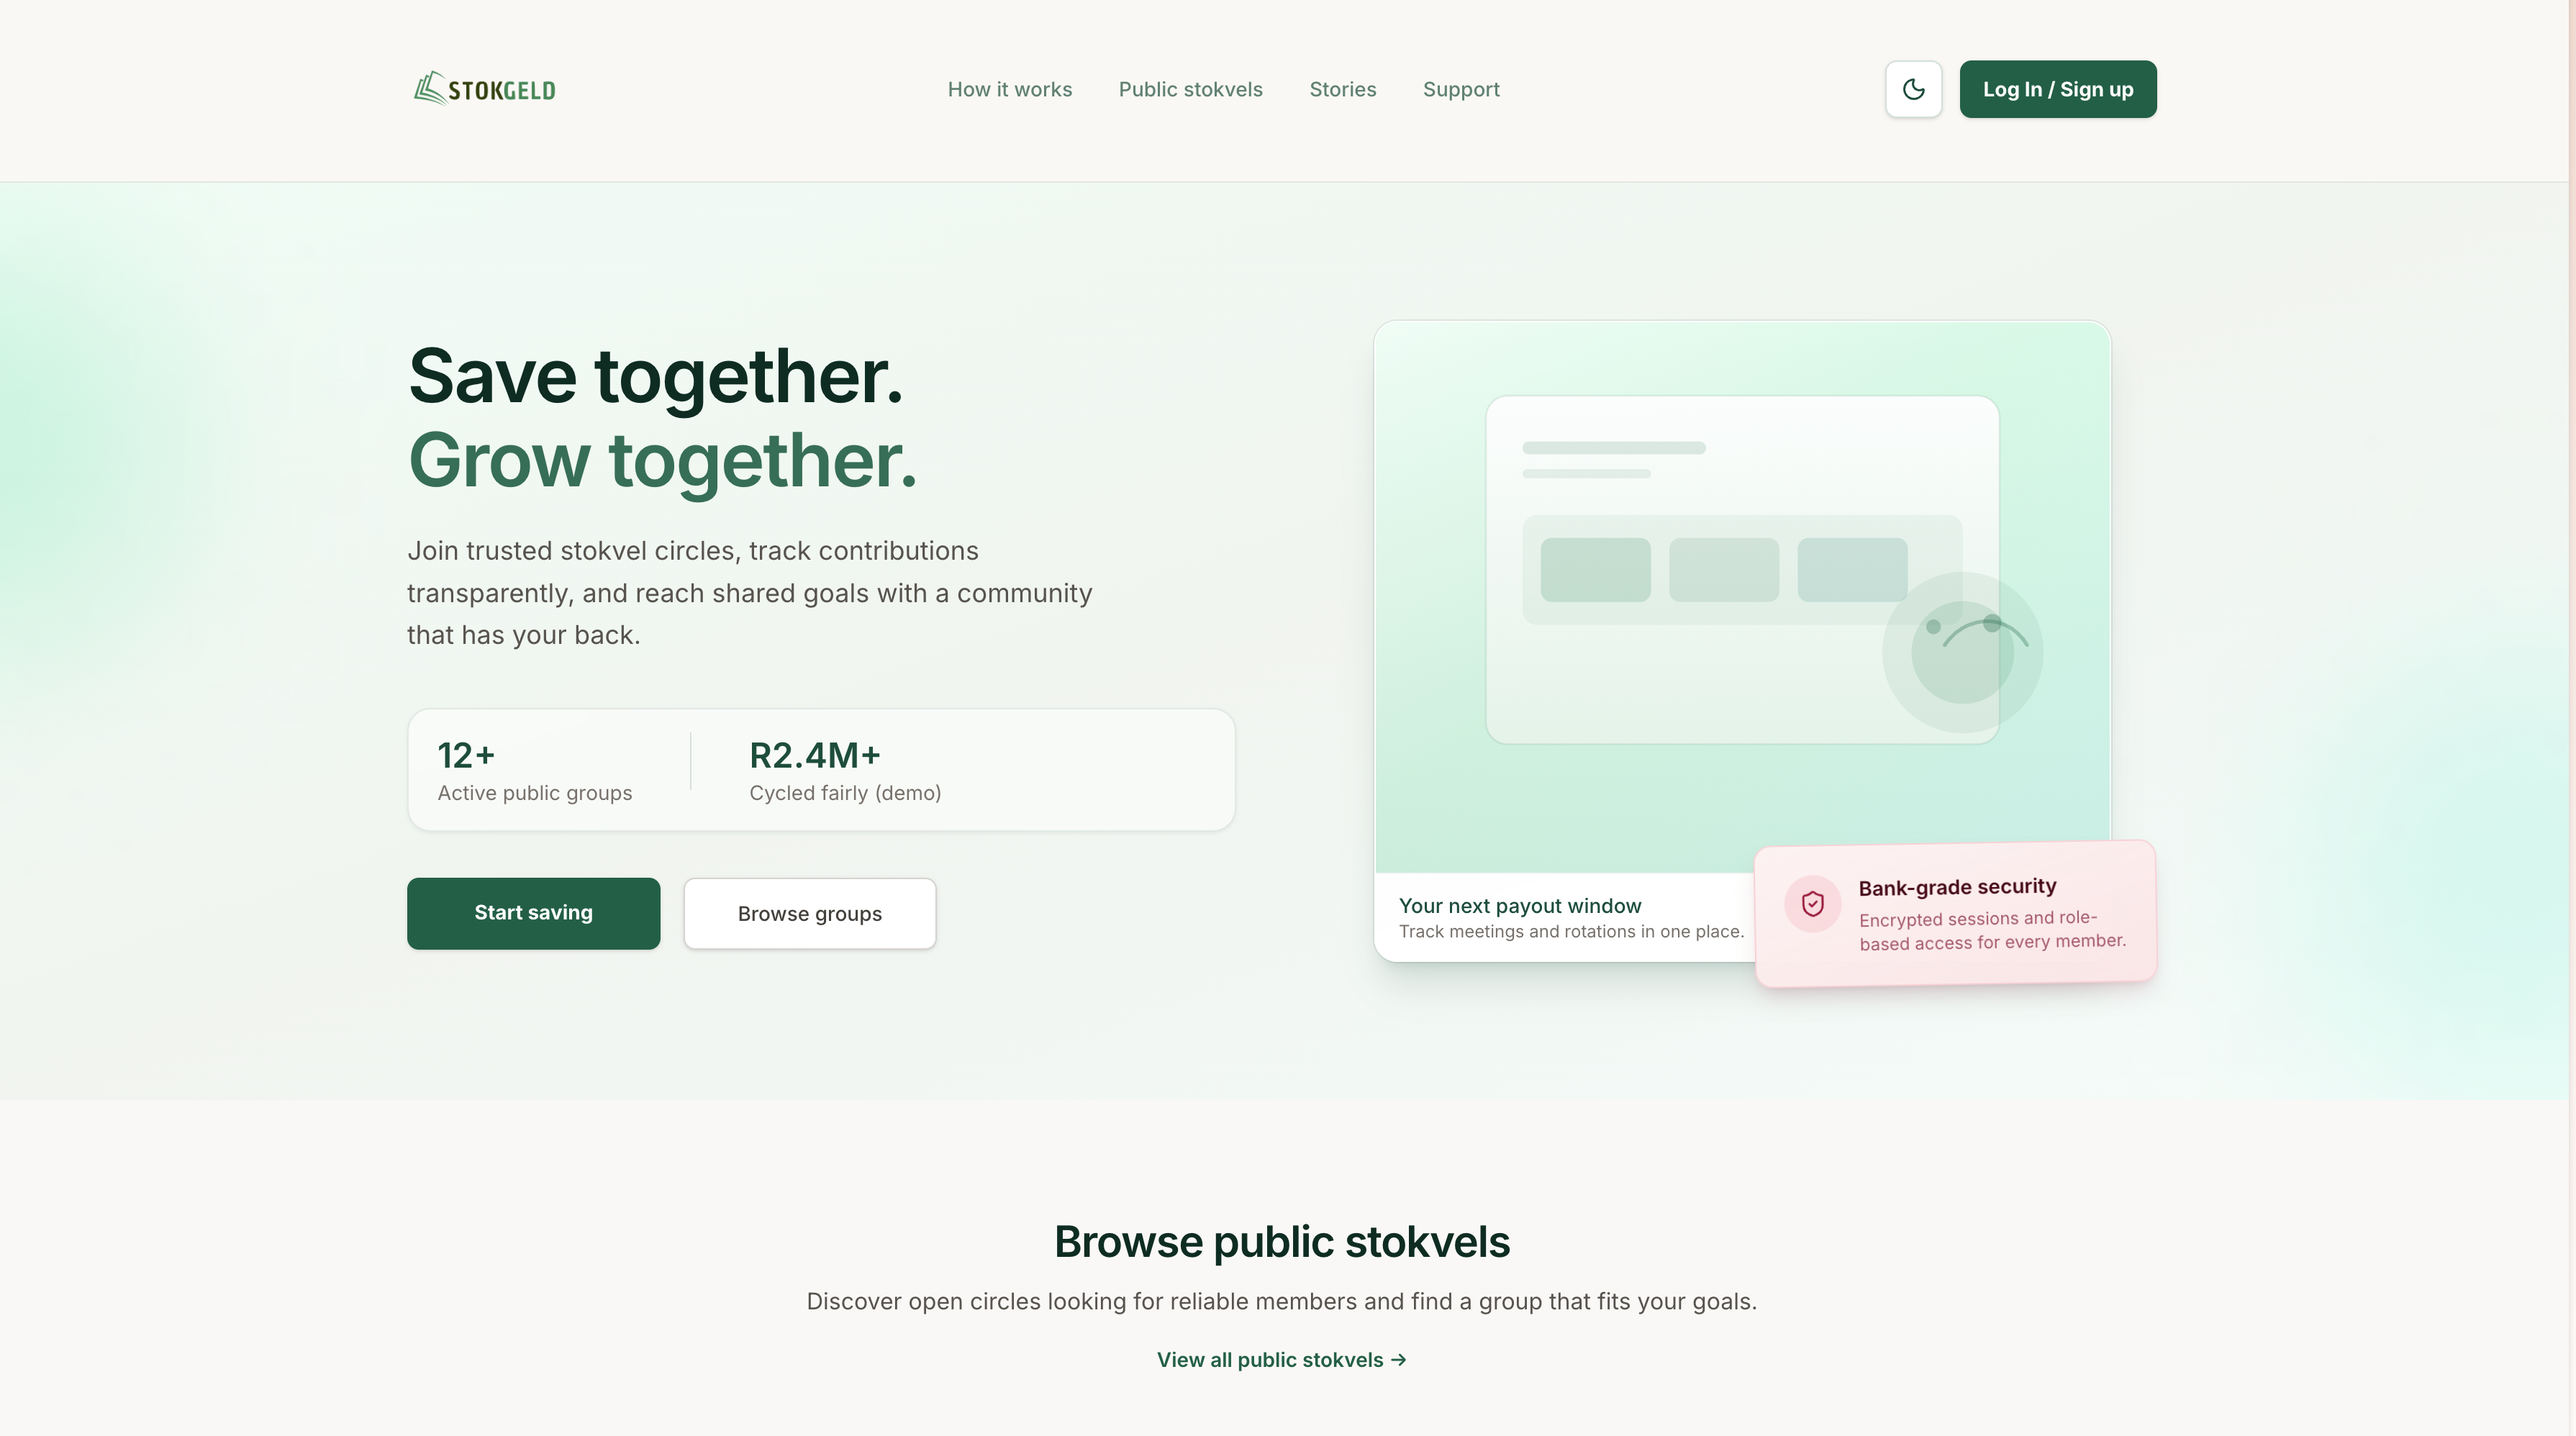
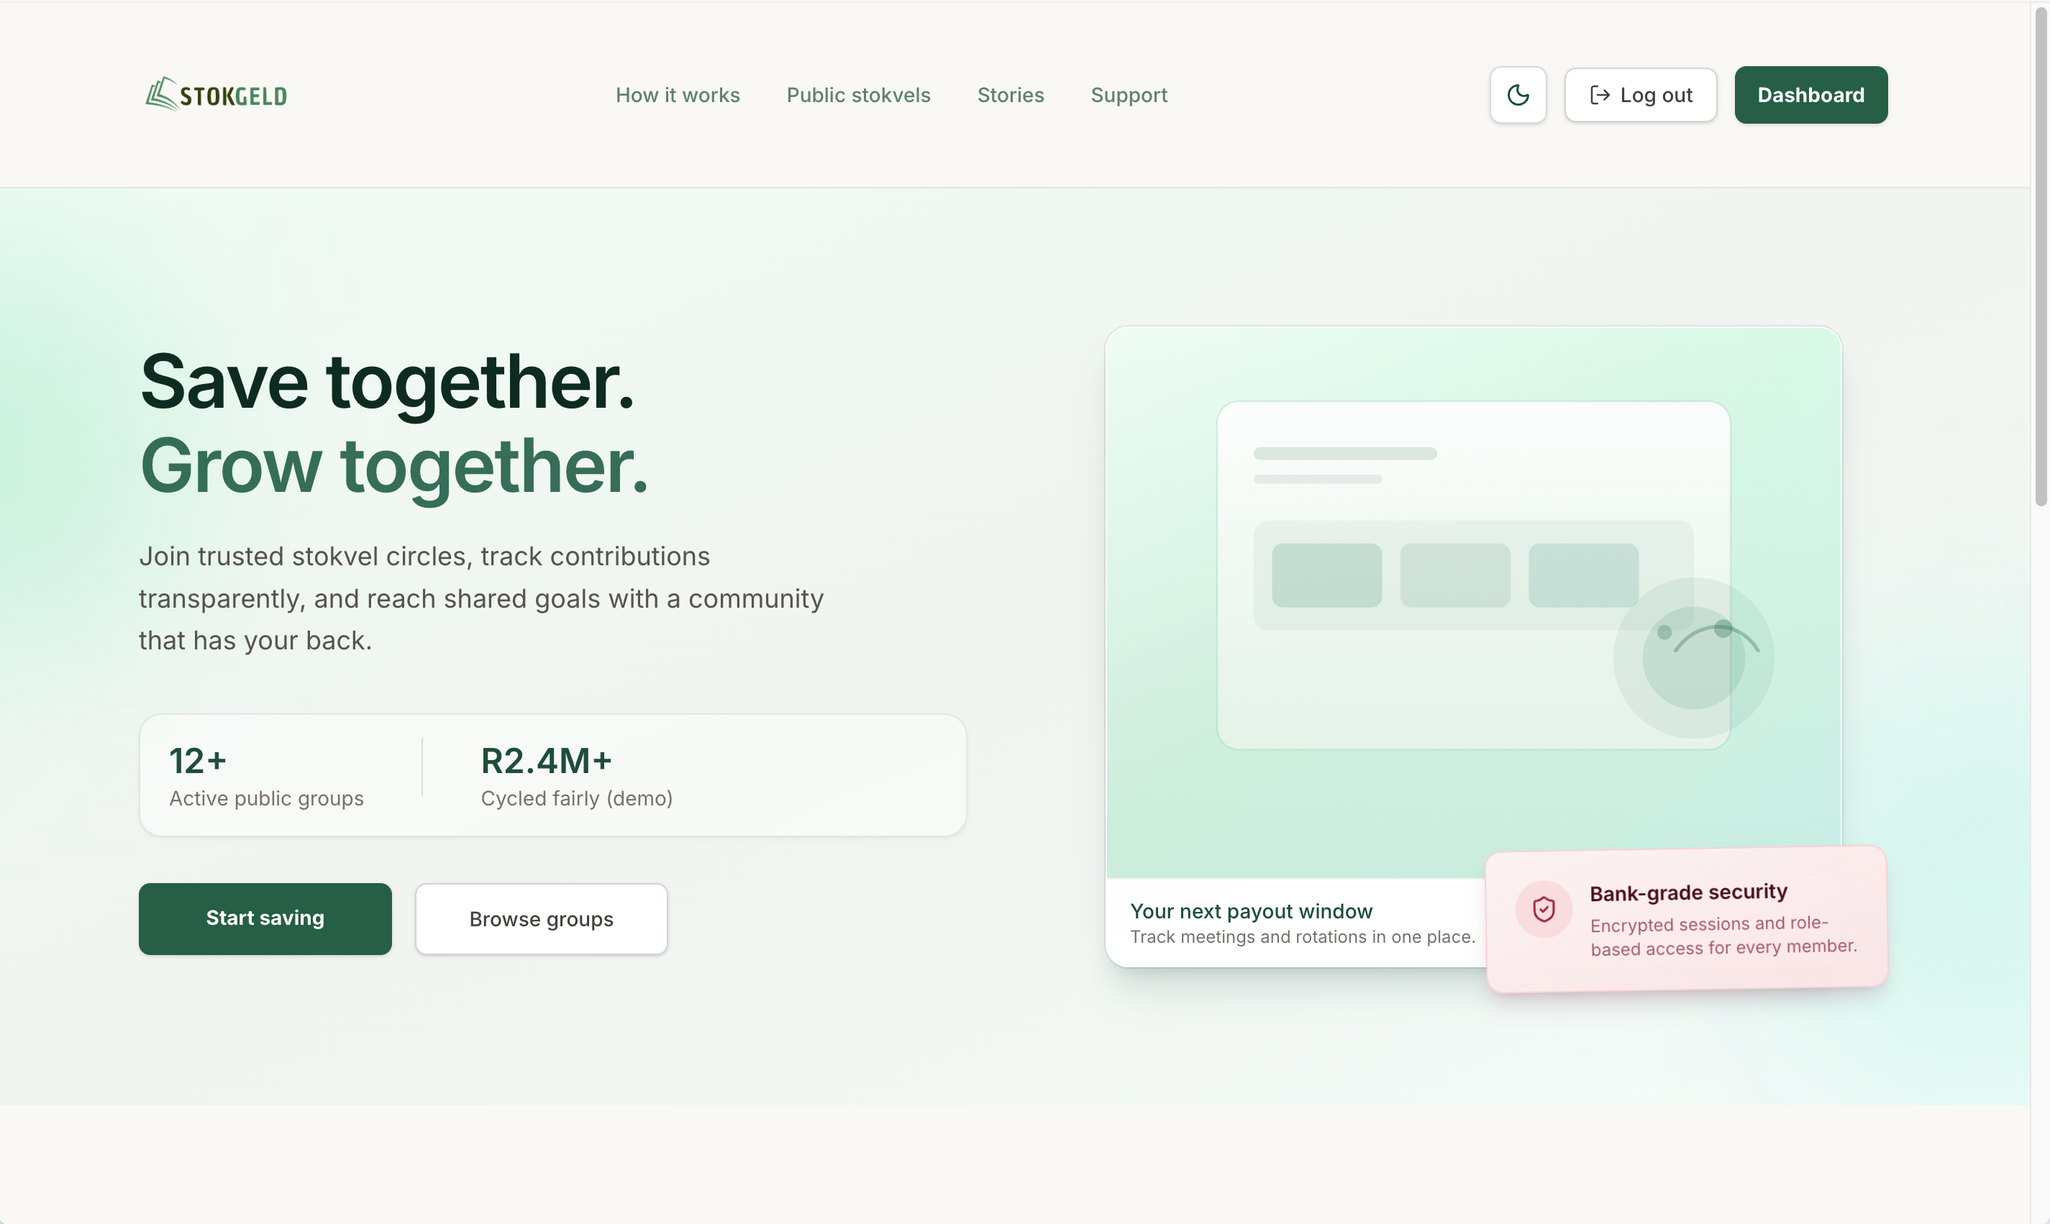
google keep project

diff --git a/cover.css b/cover.css
@@ -1,5 +1,13 @@
 @import url("https://fonts.googleapis.com/css2?family=Nunito:wght@400;600;700&display=swap");
 
+/* PS1 palette — project filters & cards use these in both themes */
+:root {
+  --ps-teal: #01aea0;
+  --ps-yellow: #ffc501;
+  --ps-red: #ff0021;
+  --ps-blue: #006eb8;
+}
+
 :root,
 [data-bs-theme="light"] {
   /* Custom Tokens - PS1 Light Mode */
@@ -362,78 +370,75 @@ body {
   border-color: var(--border-color) !important;
 }
 
-[data-bs-theme="light"] #projects-grid.filter-all-active .project-card .card {
+#projects-grid.filter-all-active .project-card .card {
   border-width: 1px;
   border-color: var(--border-color) !important;
 }
 
-[data-bs-theme="light"]
-  #projects-grid.filter-foundational-active
+#projects-grid.filter-foundational-active
   .project-card[data-project-category="foundational"]
   .card {
   border-width: 2px;
-  border-color: var(--accent-yellow) !important;
+  border-color: var(--ps-yellow) !important;
 }
 
-[data-bs-theme="light"]
-  #projects-grid.filter-fullstack-active
+#projects-grid.filter-fullstack-active
   .project-card[data-project-category="fullstack"]
   .card {
   border-width: 2px;
-  border-color: var(--accent-red) !important;
+  border-color: var(--ps-red) !important;
 }
 
-[data-bs-theme="light"]
-  #projects-grid.filter-wordpress-active
+#projects-grid.filter-wordpress-active
   .project-card[data-project-category="wordpress"]
   .card {
   border-width: 2px;
-  border-color: var(--accent-primary) !important;
+  border-color: var(--ps-blue) !important;
 }
 
-[data-bs-theme="light"] #projects-grid.filter-foundational-active .project-card .btn.btn-primary {
-  --bs-btn-bg: var(--accent-yellow);
-  --bs-btn-border-color: var(--accent-yellow);
-  --bs-btn-hover-bg: var(--accent-yellow);
-  --bs-btn-hover-border-color: var(--accent-yellow);
-  --bs-btn-active-bg: var(--accent-yellow);
-  --bs-btn-active-border-color: var(--accent-yellow);
+#projects-grid.filter-foundational-active .project-card .btn.btn-primary {
+  --bs-btn-bg: var(--ps-yellow);
+  --bs-btn-border-color: var(--ps-yellow);
+  --bs-btn-hover-bg: var(--ps-yellow);
+  --bs-btn-hover-border-color: var(--ps-yellow);
+  --bs-btn-active-bg: var(--ps-yellow);
+  --bs-btn-active-border-color: var(--ps-yellow);
   --bs-btn-color: #212529;
   --bs-btn-hover-color: #212529;
   --bs-btn-active-color: #212529;
 }
 
-[data-bs-theme="light"] #projects-grid.filter-all-active .project-card .btn.btn-primary {
-  --bs-btn-bg: var(--accent-teal);
-  --bs-btn-border-color: var(--accent-teal);
-  --bs-btn-hover-bg: var(--accent-teal);
-  --bs-btn-hover-border-color: var(--accent-teal);
-  --bs-btn-active-bg: var(--accent-teal);
-  --bs-btn-active-border-color: var(--accent-teal);
+#projects-grid.filter-all-active .project-card .btn.btn-primary {
+  --bs-btn-bg: var(--ps-teal);
+  --bs-btn-border-color: var(--ps-teal);
+  --bs-btn-hover-bg: var(--ps-teal);
+  --bs-btn-hover-border-color: var(--ps-teal);
+  --bs-btn-active-bg: var(--ps-teal);
+  --bs-btn-active-border-color: var(--ps-teal);
   --bs-btn-color: #fff;
   --bs-btn-hover-color: #fff;
   --bs-btn-active-color: #fff;
 }
 
-[data-bs-theme="light"] #projects-grid.filter-fullstack-active .project-card .btn.btn-primary {
-  --bs-btn-bg: var(--accent-red);
-  --bs-btn-border-color: var(--accent-red);
-  --bs-btn-hover-bg: var(--accent-red);
-  --bs-btn-hover-border-color: var(--accent-red);
-  --bs-btn-active-bg: var(--accent-red);
-  --bs-btn-active-border-color: var(--accent-red);
+#projects-grid.filter-fullstack-active .project-card .btn.btn-primary {
+  --bs-btn-bg: var(--ps-red);
+  --bs-btn-border-color: var(--ps-red);
+  --bs-btn-hover-bg: var(--ps-red);
+  --bs-btn-hover-border-color: var(--ps-red);
+  --bs-btn-active-bg: var(--ps-red);
+  --bs-btn-active-border-color: var(--ps-red);
   --bs-btn-color: #fff;
   --bs-btn-hover-color: #fff;
   --bs-btn-active-color: #fff;
 }
 
-[data-bs-theme="light"] #projects-grid.filter-wordpress-active .project-card .btn.btn-primary {
-  --bs-btn-bg: var(--accent-primary);
-  --bs-btn-border-color: var(--accent-primary);
-  --bs-btn-hover-bg: var(--accent-primary);
-  --bs-btn-hover-border-color: var(--accent-primary);
-  --bs-btn-active-bg: var(--accent-primary);
-  --bs-btn-active-border-color: var(--accent-primary);
+#projects-grid.filter-wordpress-active .project-card .btn.btn-primary {
+  --bs-btn-bg: var(--ps-blue);
+  --bs-btn-border-color: var(--ps-blue);
+  --bs-btn-hover-bg: var(--ps-blue);
+  --bs-btn-hover-border-color: var(--ps-blue);
+  --bs-btn-active-bg: var(--ps-blue);
+  --bs-btn-active-border-color: var(--ps-blue);
   --bs-btn-color: #fff;
   --bs-btn-hover-color: #fff;
   --bs-btn-active-color: #fff;
@@ -533,90 +538,99 @@ body {
     color 0.2s ease;
 }
 
+#projects .project-tabs .filter-btn.btn-outline-primary {
+  --bs-btn-color: var(--text-primary);
+  --bs-btn-border-color: var(--border-color);
+  --bs-btn-hover-color: var(--text-primary);
+  --bs-btn-bg: var(--bg-surface);
+  --bs-btn-hover-bg: var(--bg-surface);
+  --bs-btn-active-bg: var(--bg-surface);
+  --bs-btn-active-color: var(--text-primary);
+}
+
 .btn-group .btn:hover,
 .btn-group .btn:focus-visible,
 .filter-btn:hover,
 .filter-btn:focus-visible {
-  border-color: var(--accent-primary);
   color: var(--text-primary);
 }
 
-[data-bs-theme="light"] #filter-all:hover,
-[data-bs-theme="light"] #filter-all:focus-visible {
-  border-color: var(--accent-teal);
+#filter-all:hover,
+#filter-all:focus-visible {
+  border-color: var(--ps-teal);
 }
 
-[data-bs-theme="light"] #filter-all {
-  --bs-btn-hover-border-color: var(--accent-teal);
-  --bs-btn-active-border-color: var(--accent-teal);
-  --bs-btn-active-bg: var(--accent-teal);
+#filter-all {
+  --bs-btn-hover-border-color: var(--ps-teal);
+  --bs-btn-active-border-color: var(--ps-teal);
+  --bs-btn-active-bg: var(--ps-teal);
   --bs-btn-active-color: #fff;
 }
 
-[data-bs-theme="light"] #filter-foundational:hover,
-[data-bs-theme="light"] #filter-foundational:focus-visible {
-  border-color: var(--accent-yellow);
+#filter-foundational:hover,
+#filter-foundational:focus-visible {
+  border-color: var(--ps-yellow);
 }
 
-[data-bs-theme="light"] #filter-foundational {
-  --bs-btn-hover-border-color: var(--accent-yellow);
-  --bs-btn-active-border-color: var(--accent-yellow);
-  --bs-btn-active-bg: var(--accent-yellow);
+#filter-foundational {
+  --bs-btn-hover-border-color: var(--ps-yellow);
+  --bs-btn-active-border-color: var(--ps-yellow);
+  --bs-btn-active-bg: var(--ps-yellow);
   --bs-btn-active-color: #212529;
 }
 
-[data-bs-theme="light"] #filter-fullstack:hover,
-[data-bs-theme="light"] #filter-fullstack:focus-visible {
-  border-color: var(--accent-red);
+#filter-fullstack:hover,
+#filter-fullstack:focus-visible {
+  border-color: var(--ps-red);
 }
 
-[data-bs-theme="light"] #filter-fullstack {
-  --bs-btn-hover-border-color: var(--accent-red);
-  --bs-btn-active-border-color: var(--accent-red);
-  --bs-btn-active-bg: var(--accent-red);
+#filter-fullstack {
+  --bs-btn-hover-border-color: var(--ps-red);
+  --bs-btn-active-border-color: var(--ps-red);
+  --bs-btn-active-bg: var(--ps-red);
   --bs-btn-active-color: #fff;
 }
 
-[data-bs-theme="light"] #filter-wordpress:hover,
-[data-bs-theme="light"] #filter-wordpress:focus-visible {
-  border-color: var(--accent-primary);
+#filter-wordpress:hover,
+#filter-wordpress:focus-visible {
+  border-color: var(--ps-blue);
 }
 
-[data-bs-theme="light"] #filter-wordpress {
-  --bs-btn-hover-border-color: var(--accent-primary);
-  --bs-btn-active-border-color: var(--accent-primary);
-  --bs-btn-active-bg: var(--accent-primary);
+#filter-wordpress {
+  --bs-btn-hover-border-color: var(--ps-blue);
+  --bs-btn-active-border-color: var(--ps-blue);
+  --bs-btn-active-bg: var(--ps-blue);
   --bs-btn-active-color: #fff;
 }
 
-[data-bs-theme="light"] #filter-all:is(.active, .btn-primary) {
-  background-color: var(--accent-teal) !important;
-  border-color: var(--accent-teal) !important;
+#filter-all:is(.active, .btn-primary) {
+  background-color: var(--ps-teal) !important;
+  border-color: var(--ps-teal) !important;
   color: #fff !important;
 }
 
-[data-bs-theme="light"] #filter-foundational:is(.active, .btn-primary) {
-  background-color: var(--accent-yellow) !important;
-  border-color: var(--accent-yellow) !important;
+#filter-foundational:is(.active, .btn-primary) {
+  background-color: var(--ps-yellow) !important;
+  border-color: var(--ps-yellow) !important;
   color: #212529 !important;
 }
 
-[data-bs-theme="light"] #filter-fullstack:is(.active, .btn-primary) {
-  background-color: var(--accent-red) !important;
-  border-color: var(--accent-red) !important;
+#filter-fullstack:is(.active, .btn-primary) {
+  background-color: var(--ps-red) !important;
+  border-color: var(--ps-red) !important;
   color: #fff !important;
 }
 
-[data-bs-theme="light"] #filter-wordpress:is(.active, .btn-primary) {
-  background-color: var(--accent-primary) !important;
-  border-color: var(--accent-primary) !important;
+#filter-wordpress:is(.active, .btn-primary) {
+  background-color: var(--ps-blue) !important;
+  border-color: var(--ps-blue) !important;
   color: #fff !important;
 }
 
 /* PS symbol indicator above active project tabs */
-[data-bs-theme="light"] .project-tabs .filter-btn::before {
+.project-tabs .filter-btn::before {
   position: absolute;
-  top: -18px;
+  top: -22px;
   left: 50%;
   transform: translateX(-50%);
   font-size: 14px;
@@ -625,31 +639,31 @@ body {
   transition: opacity 0.25s ease;
 }
 
-[data-bs-theme="light"] .project-tabs .filter-btn:is(.active, .btn-primary)::before {
+.project-tabs .filter-btn:is(.active, .btn-primary)::before {
   opacity: 1;
-  animation: ps-float 2s ease-in-out infinite;
+  animation: ps-float-tabs 2s ease-in-out infinite;
 }
 
-[data-bs-theme="light"] .project-tabs #filter-all::before {
+.project-tabs #filter-all::before {
   content: "\25B3";
-  color: var(--accent-teal);
+  color: var(--ps-teal);
 }
 
-[data-bs-theme="light"] .project-tabs #filter-foundational::before {
+.project-tabs #filter-foundational::before {
   content: "\25A1";
-  color: var(--accent-yellow);
+  color: var(--ps-yellow);
   font-size: 16px;
 }
 
-[data-bs-theme="light"] .project-tabs #filter-fullstack::before {
+.project-tabs #filter-fullstack::before {
   content: "\25CB";
-  color: var(--accent-red);
+  color: var(--ps-red);
   font-size: 16px;
 }
 
-[data-bs-theme="light"] .project-tabs #filter-wordpress::before {
+.project-tabs #filter-wordpress::before {
   content: "\2716";
-  color: var(--accent-primary);
+  color: var(--ps-blue);
   font-size: 16px;
 }
 
@@ -663,11 +677,14 @@ body {
   }
 }
 
-[data-bs-theme="dark"] .project-tabs .btn.active,
-[data-bs-theme="dark"] .project-tabs .btn.btn-primary {
-  background-color: var(--accent-primary);
-  border-color: var(--accent-primary);
-  color: #f8f9fa;
+@keyframes ps-float-tabs {
+  0%,
+  100% {
+    transform: translateX(-50%) translateY(-4px);
+  }
+  50% {
+    transform: translateX(-50%) translateY(-10px);
+  }
 }
 
 .project-tech-badges {

diff --git a/projects.html b/projects.html
@@ -154,9 +154,9 @@
 
           <div class="col-12 col-md-6 col-xl-4 project-card" data-project-category="foundational">
             <div class="card h-100">
-              <img src="https://placehold.co/1200x700/e8f0fe/1f1f1f?text=Google+Keep+Clone" class="card-img-top" alt="Google Keep Clone project thumbnail" />
+              <img src="./assets/images/google-keep-thumbnail-light.png" class="card-img-top project-theme-thumb" alt="Google Keep Clone project thumbnail" data-src-light="./assets/images/google-keep-thumbnail-light.png" data-src-dark="./assets/images/google-keep-thumbnail-dark.png" />
               <div class="card-body d-flex flex-column">
-                <h5 class="card-title">Google Keep Clone <span class="small text-body-secondary">[coming soon]</span></h5>
+                <h5 class="card-title">Google Keep Clone</h5>
                 <div class="project-tech-badges mb-3">
                   <span class="badge">React</span>
                   <span class="badge">TypeScript</span>
@@ -164,8 +164,8 @@
                   <span class="badge">Material UI</span>
                 </div>
                 <div class="mt-auto d-flex gap-2">
-                  <button class="btn btn-secondary" type="button" disabled>Coming Soon</button>
-                  <button class="btn btn-outline-secondary" type="button" disabled><i class="bi bi-code-slash"></i></button>
+                  <a href="https://goggles-keeping-cloon.netlify.app/" target="_blank" class="btn btn-primary">View Website</a>
+                  <a href="https://github.com/AbdullahAliCodes/google-keep-clone-react" target="_blank" class="btn btn-outline-secondary"><i class="bi bi-code-slash"></i></a>
                 </div>
               </div>
             </div>
@@ -216,7 +216,7 @@
 
           <div class="col-12 col-md-6 col-xl-4 project-card" data-project-category="fullstack">
             <div class="card h-100">
-              <img src="./assets/images/stokvel-thumbnail-light.png" class="card-img-top" alt="StokGeld project thumbnail" />
+              <img src="./assets/images/stokvel-thumbnail-light.png" class="card-img-top object-fit-cover project-theme-thumb" alt="StokGeld project thumbnail" data-src-light="./assets/images/stokvel-thumbnail-light.png" data-src-dark="./assets/images/stokvel-thumbnail-dark.png" />
               <div class="card-body d-flex flex-column">
                 <h5 class="card-title">StokGeld</h5>
                 <div class="project-tech-badges mb-3">

diff --git a/index.html b/index.html
@@ -172,7 +172,7 @@
               </div>
               <div class="col-md-6 mt-3">
                 <h1 id="title-about-me" class="text-center text-md-start">About me</h1>
-                <p class="lead">Aspiring Fullstack AI Developer, in his 3rd year of Computer Science at Wits. I enjoy problem solving through code, with the aim of contributing towards something bigger than myself. I am also a part-time Mathematics Tutor, with a passion for teaching and empowering the next generation. My hobbies include sports, video games and a dash of digital marketing.</p>
+                <p class="lead">Aspiring Software Developer & Engineer, in 3rd year of Computer Science at Wits. I enjoy problem solving through code, with the aim of contributing towards something bigger than myself. I am also a part-time Mathematics Tutor, with a passion for teaching and empowering the next generation. My hobbies include sports, video games and a dash of digital marketing.</p>
               </div>
             </div>            
           </div>
